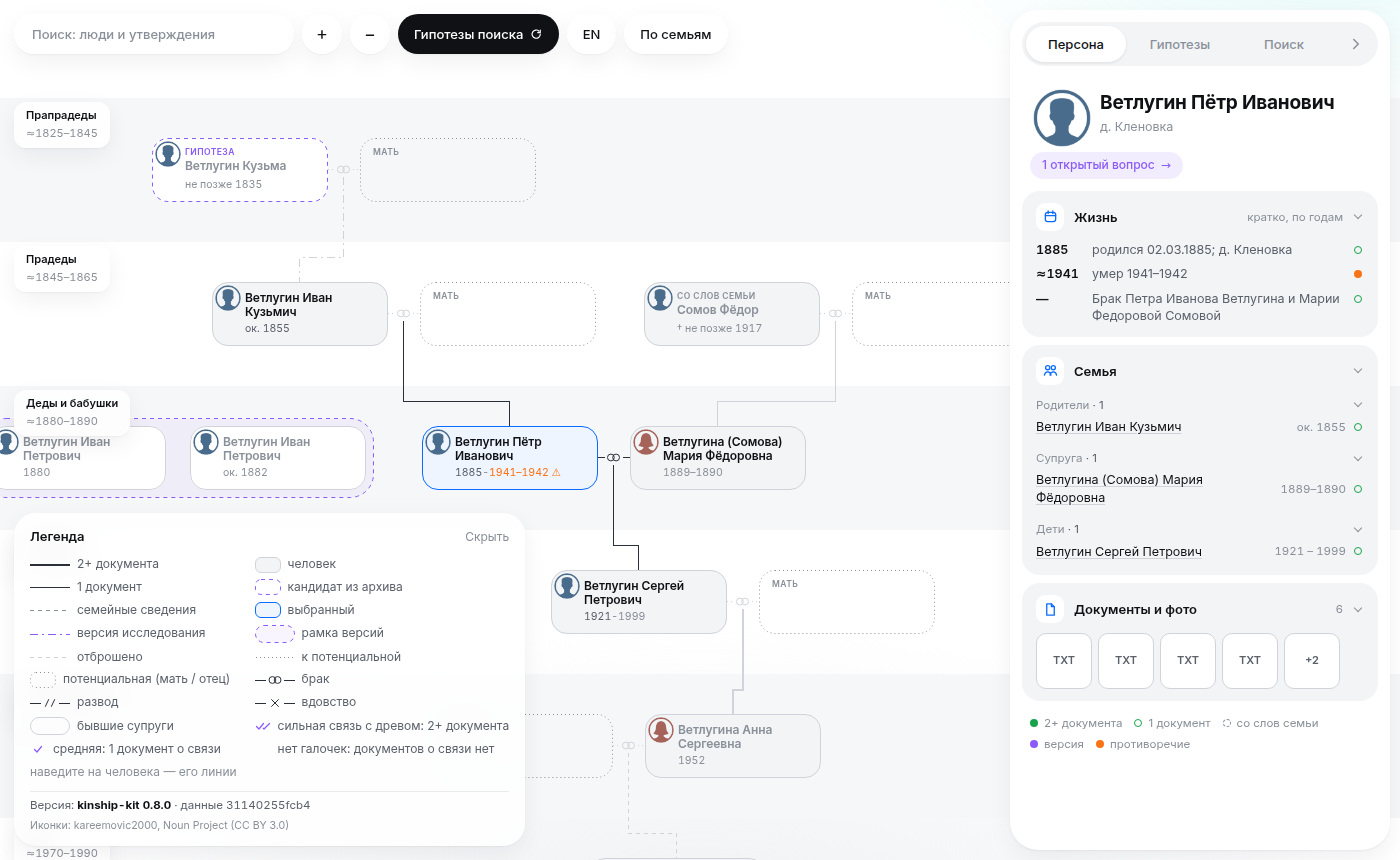
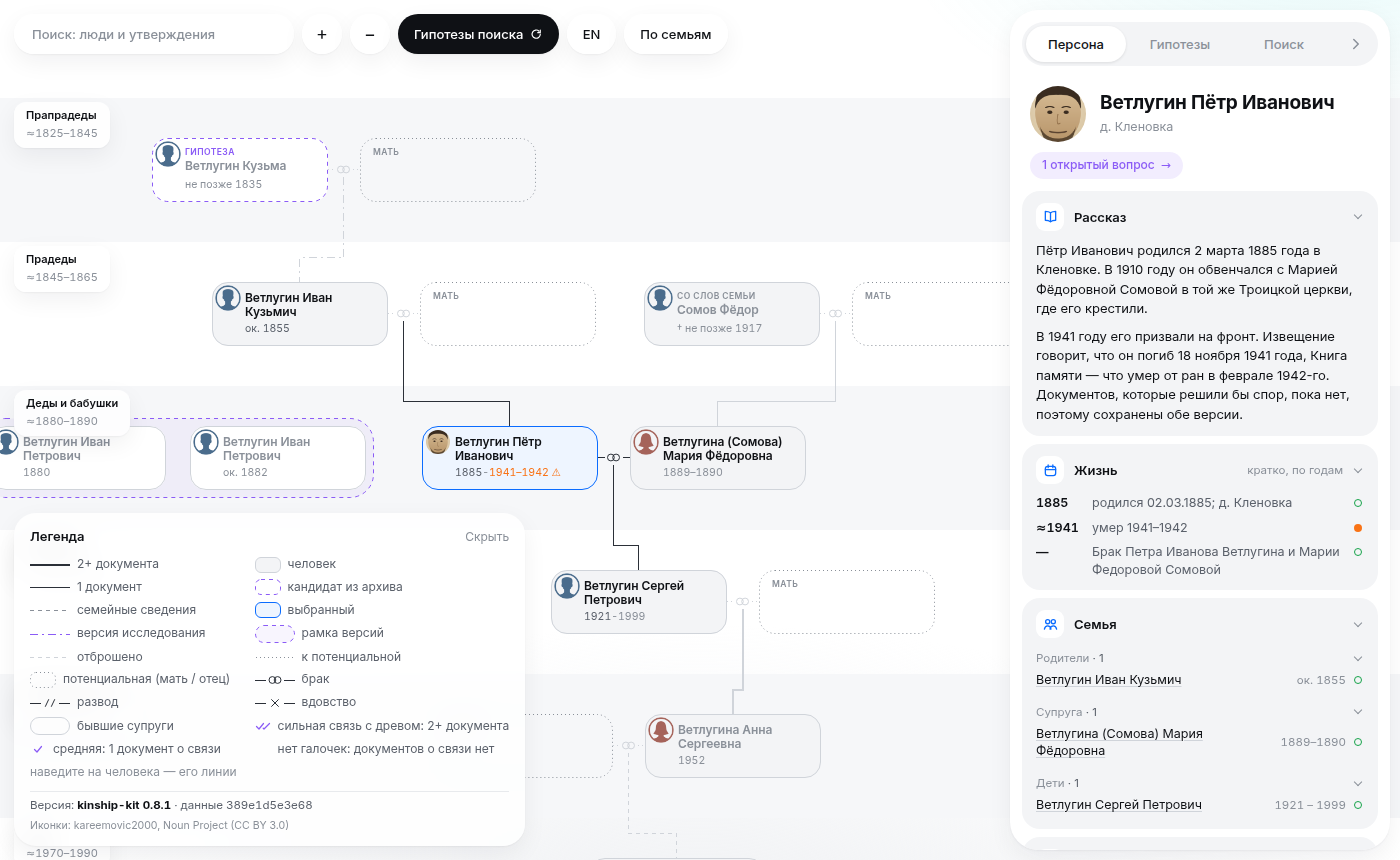
Версия 0.8.1; скриншот с рассказом и портретом

diff --git a/skills/kinship-kit/kin/__init__.py b/skills/kinship-kit/kin/__init__.py
@@ -1,2 +1,2 @@
 """kinship-kit: CLI и библиотека дела генеалогического исследования (только стандартная библиотека Python)."""
-__version__ = "0.8.0"
+__version__ = "0.8.1"

diff --git a/CHANGELOG.md b/CHANGELOG.md
@@ -3,6 +3,14 @@
 Формат: версия (метка git `vX.Y.Z`), дата, что нового. **Схема данных** — нужно ли выполнить `kin migrate` в своих делах.
 Обновление: `kin upgrade check` → `kin upgrade apply` → в каждом деле `kin migrate --dry-run`. Данные дел не затрагиваются.
 
+## [0.8.1] — 2026-11-11
+Схема данных без изменений (v2).
+
+- Исправлено: если человека открывали по ссылке (`#P-…`) раньше, чем загрузилось фото, в шапке панели оставался
+  силуэт вместо портрета. Теперь шапка обновляется, когда фото приходит.
+- Демо-дела показывают рассказы (`stories/P-….md`) и портрет — нарисованный, вымышленного человека — в том числе
+  в публичной версии. Решение автора демо записано через `--by`.
+
 ## [0.8.0] — 2026-11-10
 Схема данных без изменений (v2). Пересоберите сайт: `kin site build`.
 

diff --git a/skills/kinship-kit/SKILL.md b/skills/kinship-kit/SKILL.md
@@ -4,7 +4,7 @@ description: Генеалогическое исследование (бывши
 license: MIT (основано на ex-ussr-kinship-research © 2026 Denis Shiryaev)
 compatibility: Python 3.10+ (только стандартная библиотека), shell. Claude Code, Codex и другие клиенты с поддержкой Agent Skills.
 metadata:
-  version: "0.8.0"
+  version: "0.8.1"
   language: "ru"
   reply_language: "user"
 ---
